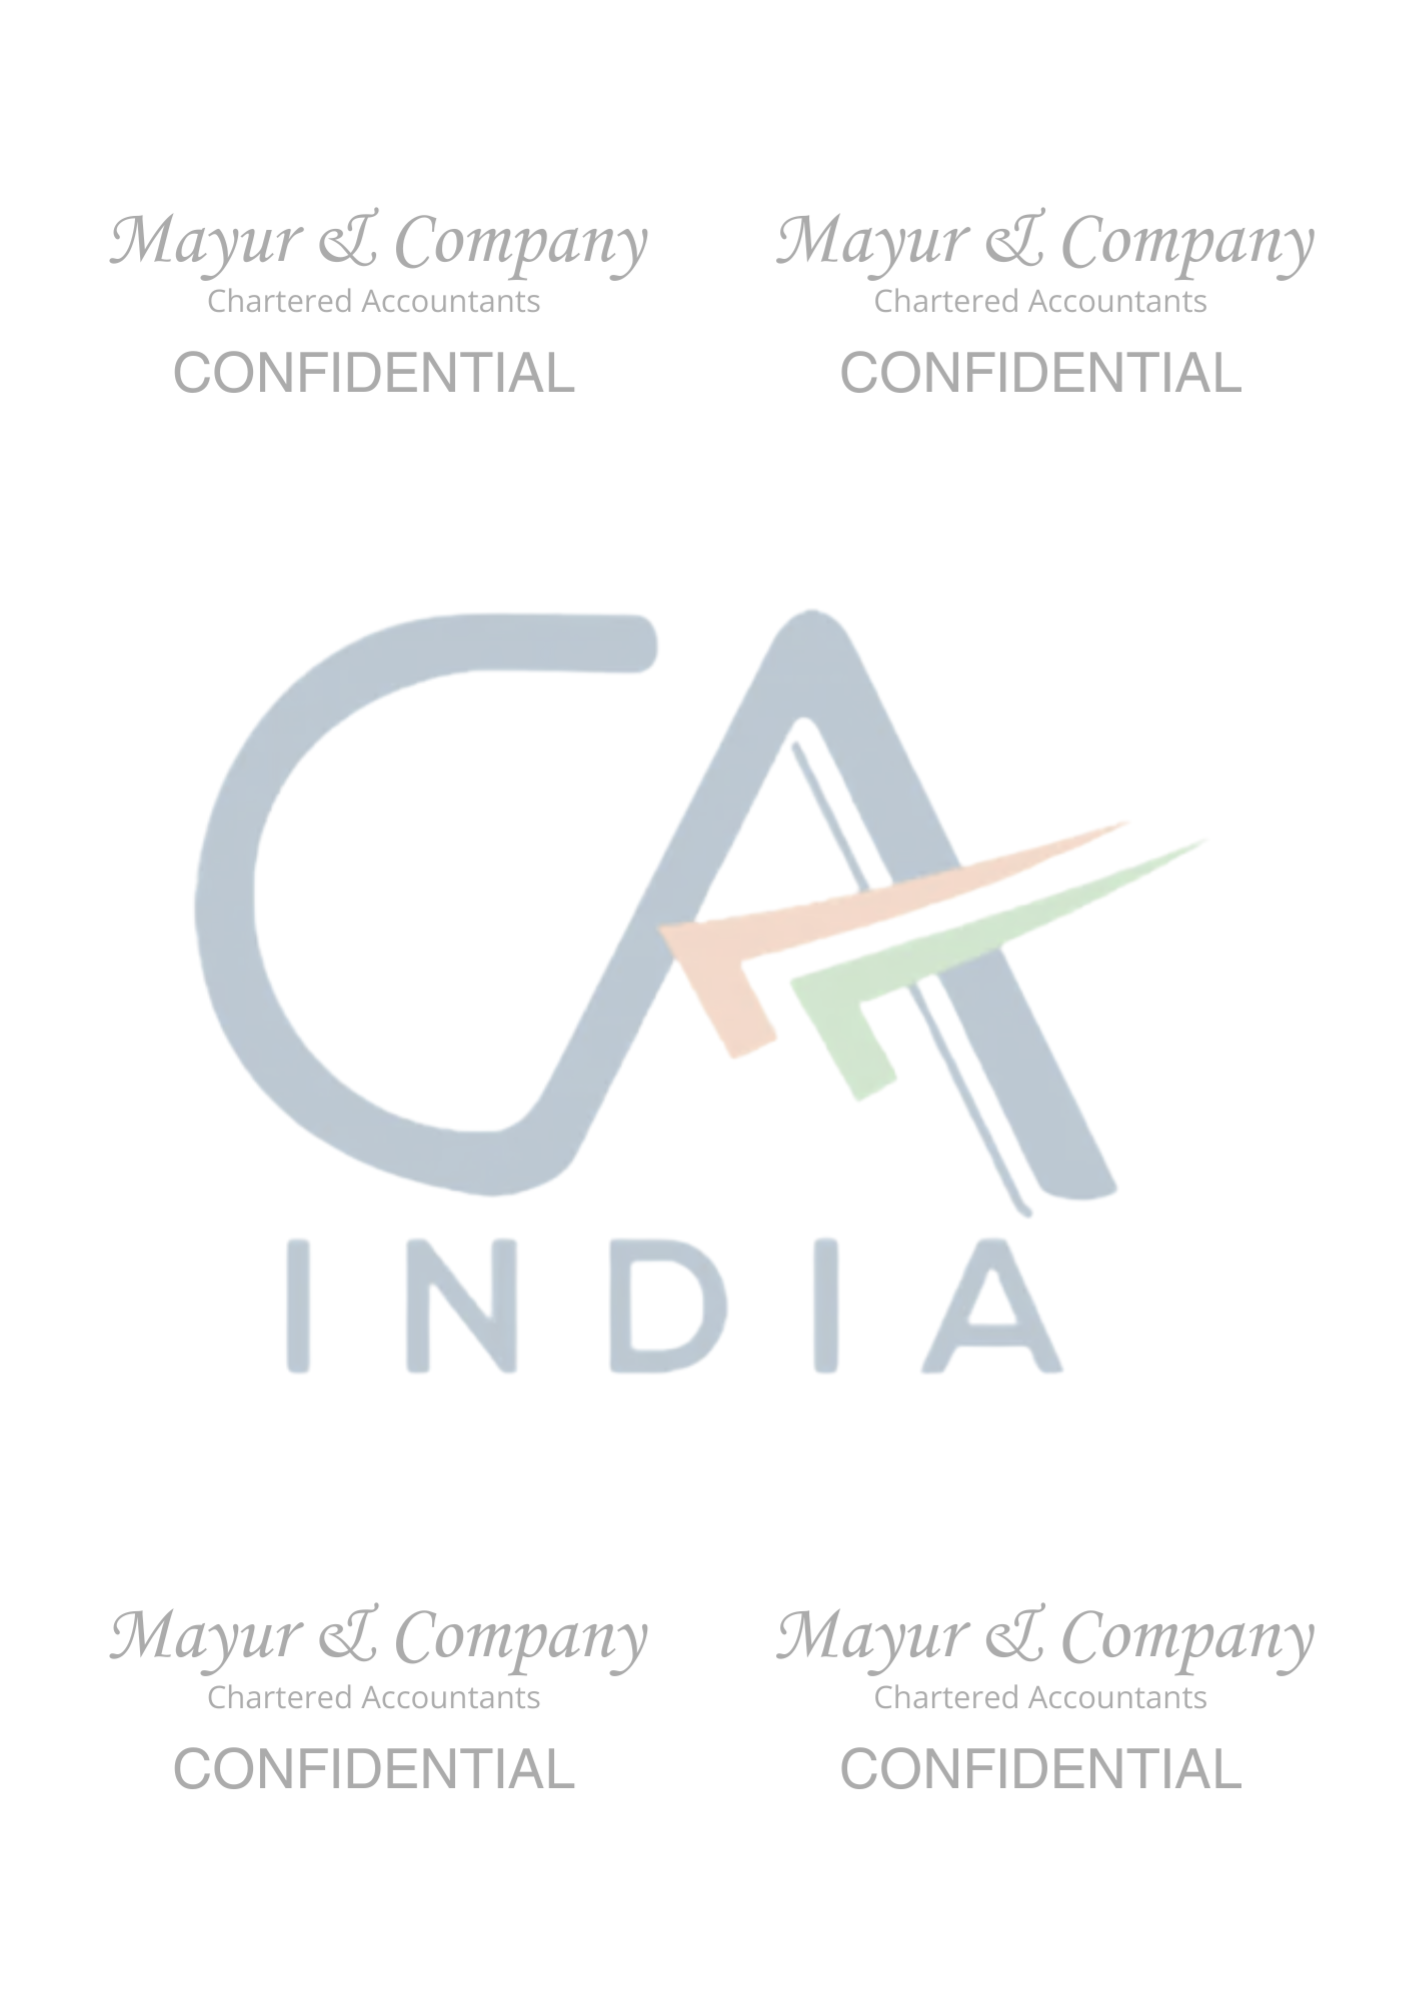
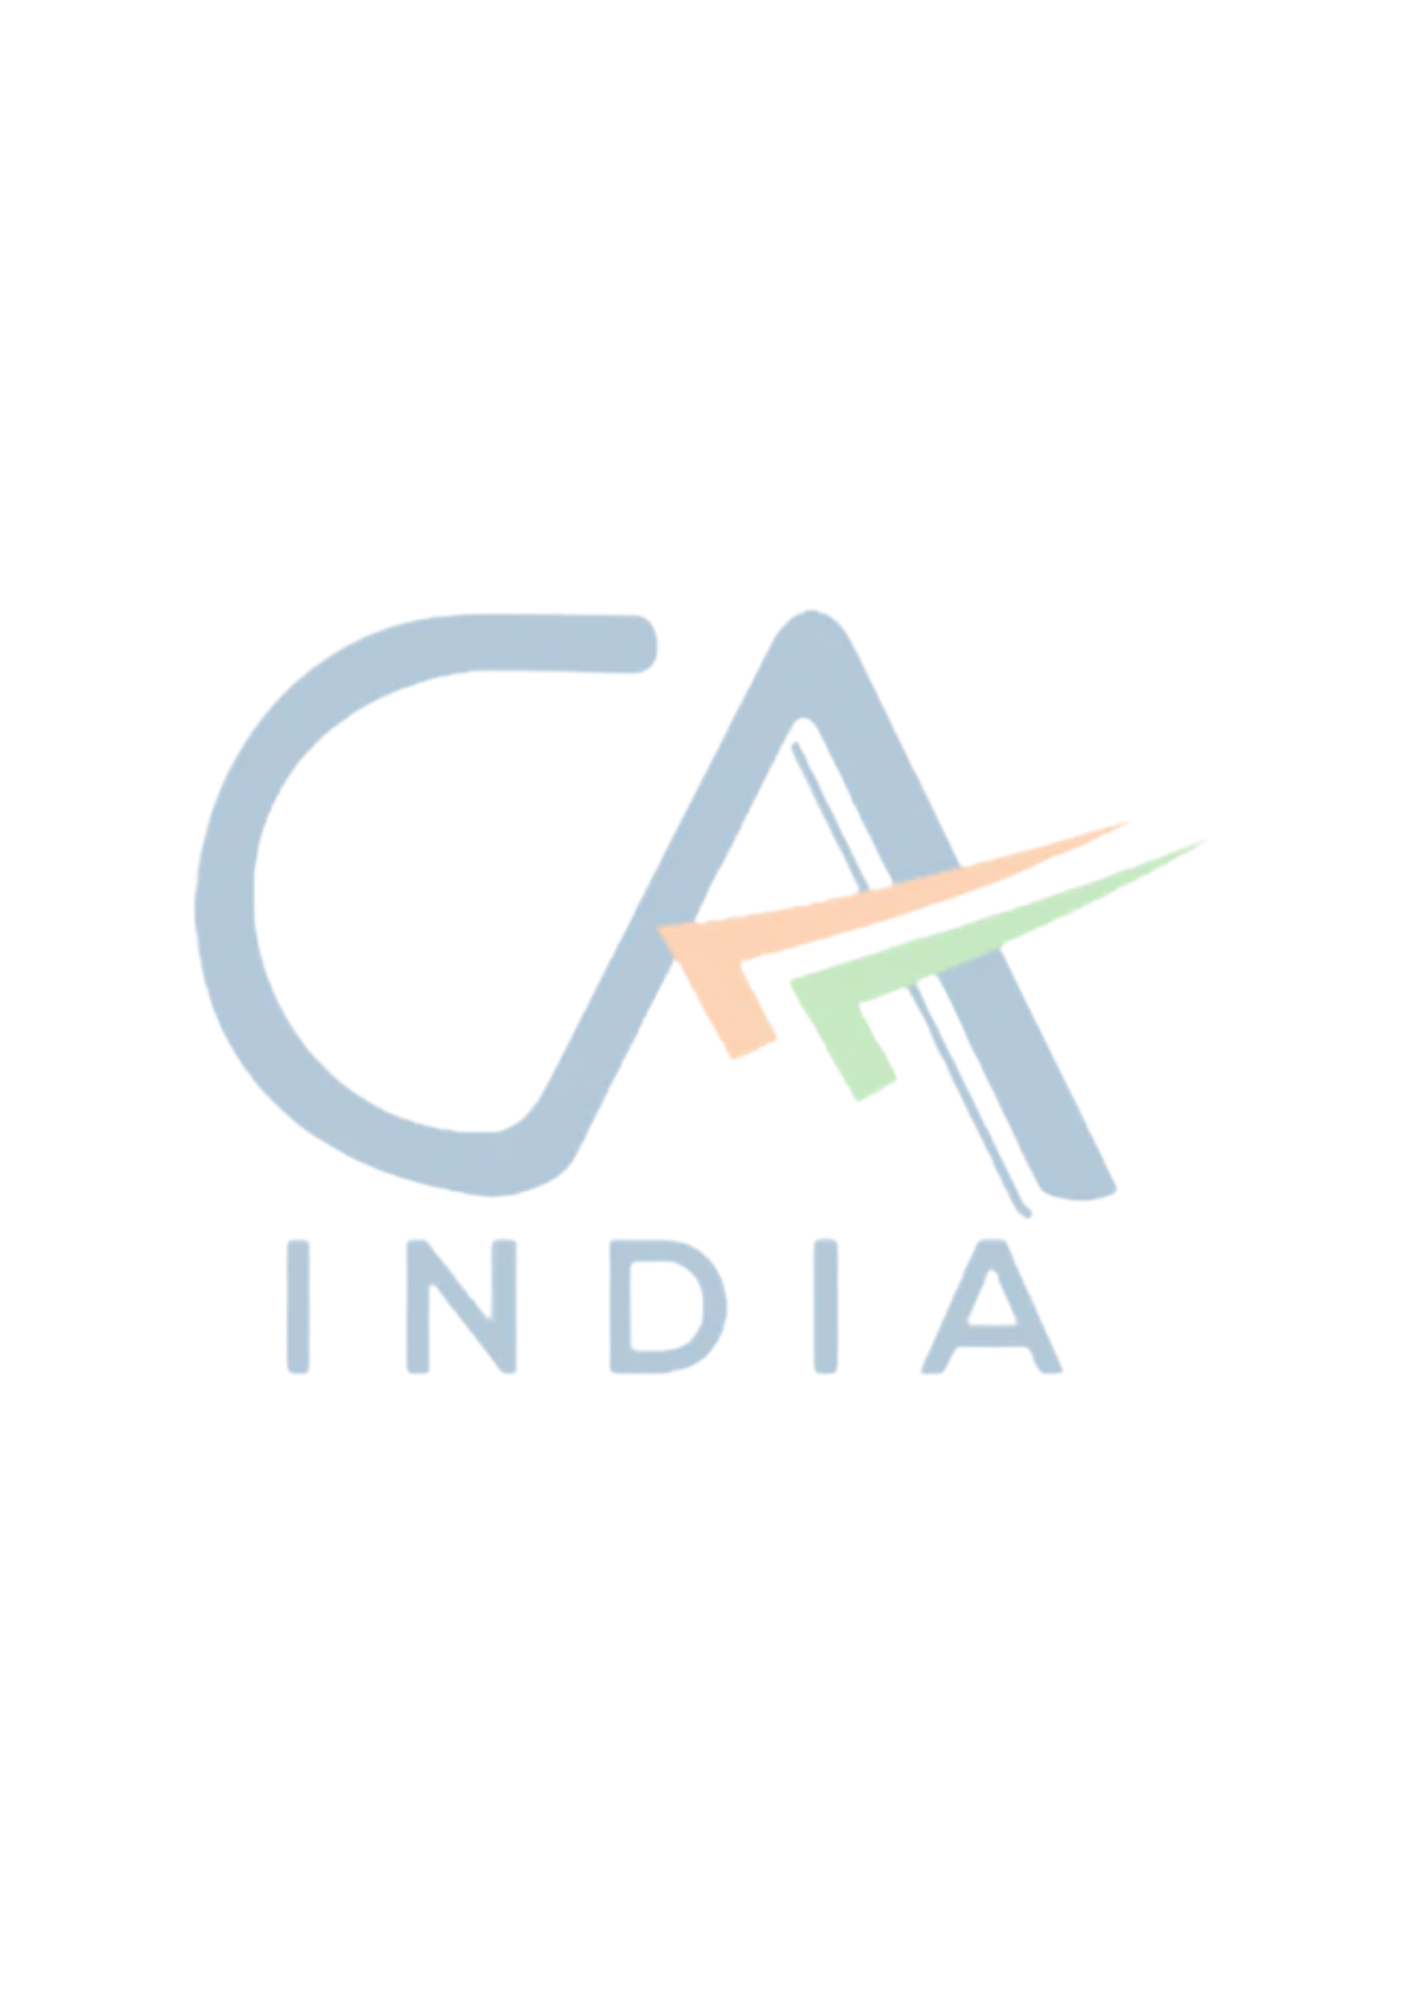
added letterhead on first page, page numbers and reference number

diff --git a/src/pdf/EngagementDocument.tsx b/src/pdf/EngagementDocument.tsx
@@ -21,18 +21,20 @@ Font.registerHyphenationCallback(word => [word]);
 
 const styles = StyleSheet.create({
   page: {
-    padding: 50,
+    paddingTop: 50,
+    paddingLeft: 50,
+    paddingRight: 50,
+    paddingBottom: 80,
     fontSize: 11,
     fontFamily: "HK Grotesk",
     color: "#1f2937",
-    lineHeight: 1.5,
   },
   watermark: {
     position: 'absolute',
     top: 0,
-    left: 30,
-    width: '90%',
-    height: '100%',
+    left: 0,
+    width: '100%',
+    height: '110%',
     zIndex: -1,
     opacity: 0.15,
   },
@@ -54,12 +56,13 @@ const styles = StyleSheet.create({
   message: {
     marginBottom: 20,
     textAlign: "justify",
+    lineHeight: 1,
   },
   categoryTitle: {
     fontSize: 12,
     fontWeight: "bold",
     marginTop: 16,
-    marginBottom: 8,
+    marginBottom: 10,
     textDecoration: "underline",
   },
   table: {
@@ -76,6 +79,7 @@ const styles = StyleSheet.create({
   tableRow: {
     flexDirection: "row",
     paddingVertical: 6,
+    marginBottom: 10,
     borderBottomWidth: 0.5,
     borderBottomColor: "#d1d5db",
   },
@@ -174,6 +178,7 @@ const styles = StyleSheet.create({
   },
   signatureLine: {
     marginBottom: 4,
+    lineHeight: 0.75,
   },
   bold: {
     fontWeight: "bold",
@@ -196,11 +201,12 @@ const styles = StyleSheet.create({
     fontFamily: "Helvetica",
   },
   advancedTermsPage: {
-    padding: 50,
+    paddingTop: 50,
+    paddingLeft: 50,
+    paddingRight: 50,
+    paddingBottom: 80,
     fontSize: 10,
     fontFamily: "Helvetica",
-    //color: "#1f2937",
-    lineHeight: 1.6,
   },
   advancedTermsTitle: {
     fontSize: 14,
@@ -224,10 +230,18 @@ const styles = StyleSheet.create({
     marginBottom: 6,
     textAlign: "justify",
     paddingLeft: 10,
-    //fontFamily: "Open Sauce",
-    //color: "#000",
-    //letterSpacing: 0,
+    lineHeight: 1,
   },
+  pageNumber: {
+    position: 'absolute',
+    bottom: 30,
+    left: 50,
+    right: 0,
+    zIndex: 10,
+    fontSize: 10,
+    color: '#000', // Changed to black as per user edit for visibility
+    textAlign: 'left',
+  }
 });
 
 const formatCurrency = (value: number) => value.toLocaleString("en-IN");
@@ -293,10 +307,59 @@ export const ProposalDocument = ({ data, advancedTermsAndConditions }: ProposalD
   return (
     <Document>
       <Page size="A4" style={styles.page}>
-        <Image src="/watermark.png" style={styles.watermark} fixed />
+        {/* Background layers - letterhead (page 1 only) + watermark (all pages) */}
+        <View
+          fixed
+          style={{
+            position: 'absolute',
+            top: 0,
+            left: 0,
+            width: '100%',
+            height: '118.2%', //dont change this
+          }}
+          render={({ pageNumber }) => (
+            <>
+              {/* Letterhead - only on page 1, rendered first (bottom layer) */}
+              {pageNumber === 1 && (
+                <Image src="/letterhead.png" style={{
+                  position: 'absolute',
+                  top: 0,
+                  left: 0,
+                  width: '100%',
+                  height: '100%'
+                }} />
+              )}
+              {/* Watermark - on all pages, rendered second (on top of letterhead) */}
+              <Image src="/watermark.png" style={{
+                position: 'absolute',
+                top: 0,
+                left: 0,
+                width: '100%',
+                height: '110%',
+                opacity: 0.15
+              }} />
+            </>
+          )}
+        />
+
+        {/* Page Numbers */}
+        <Text
+          fixed
+          style={styles.pageNumber}
+          render={({ pageNumber, totalPages }) => (
+            pageNumber > 1 ? `Page ${pageNumber} of ${totalPages}` : ''
+          )}
+        />
+
+        {/* Spacer for top margin on first page. Increase height to push text lower on page 1. */}
+        <View style={{ height: 120 }} />
+
         <Text style={styles.dateRight}>{proposalDate}</Text>
 
         <View style={styles.addressBlock}>
+          {data.client?.referenceNumber && (
+            <Text style={{ marginBottom: 4, fontWeight: 'bold' }}>Reference Number: {data.client.referenceNumber}</Text>
+          )}
           <Text>To,</Text>
           {isCompany && <Text style={styles.bold}>The Board of Directors</Text>}
           <Text style={styles.bold}>{clientName}</Text>
@@ -313,7 +376,6 @@ export const ProposalDocument = ({ data, advancedTermsAndConditions }: ProposalD
         <Text style={styles.salutation}>Sir,</Text>
 
         <Text style={styles.message}>{sanitizeText(message)}</Text>
-        {para && <Text style={styles.message}>{sanitizeText(para)}</Text>} {/* Display the new paragraph if it exists */}
 
         {Object.entries(servicesByCategory).map(([category, categoryServices]) => (
           <View key={category}>
@@ -383,25 +445,26 @@ export const ProposalDocument = ({ data, advancedTermsAndConditions }: ProposalD
           })}
         </View>
 
-        <Text style={{ marginTop: 16, marginBottom: 40 }}>
+        <Text style={{ marginTop: 7, marginBottom: 10 }}>
           Please send us signed copy of this Engagement Letter as a token of your acceptance. You may also sign it digitally.
         </Text>
 
         <View style={styles.signatureContainer} wrap={false}>
           {/* Left Block - CA Mayur Gupta */}
           <View style={styles.signatureBlock}>
-            <View style={{ borderTop: '1px solid #333', width: '100%', marginTop: 80, marginBottom: 10 }} />
-            <Text style={[styles.signatureLine, styles.bold]}>CA MAYUR GUPTA, FCA</Text>
-            <Text style={styles.signatureLine}>PROPRIETOR</Text>
-            <Text style={[styles.signatureLine, styles.bold]}>FOR MAYUR AND COMPANY</Text>
-            <Text style={styles.signatureLine}>CHARTERED ACCOUNTANTS</Text>
-            <Text style={styles.signatureLine}>DATE – {proposalDate}</Text>
-            <Text style={styles.signatureLine}>PLACE: DELHI</Text>
+            <View style={{ borderTop: '1px solid #333', width: '100%', marginTop: 20, marginBottom: 5 }} />
+            <Text style={[styles.signatureLine, styles.bold]}>CA MAYUR GUPTA</Text>
+            <Text style={styles.signatureLine}>Proprietor</Text>
+            <Text style={[styles.signatureLine, styles.bold]}>Mayur and Company</Text>
+            <Text style={styles.signatureLine}>Chartered Accountants</Text>
+            <Text style={styles.signatureLine}>Date – {proposalDate}</Text>
+            <Text style={styles.signatureLine}>Place: Delhi</Text>
+            <Text style={styles.enclosure}>Enc.: a/a</Text>
           </View>
 
           {/* Right Block - Client */}
           <View style={styles.signatureBlock}>
-            <View style={{ borderTop: '1px solid #333', width: '100%', marginTop: 80, marginBottom: 10 }} />
+            <View style={{ borderTop: '1px solid #333', width: '100%', marginTop: 20, marginBottom: 5 }} />
             {isCompany ? (
               <>
                 {clientRepresentative ? <Text style={styles.signatureLine}>{clientRepresentative}</Text> : null}
@@ -421,13 +484,35 @@ export const ProposalDocument = ({ data, advancedTermsAndConditions }: ProposalD
             {clientPhone && <Text style={styles.signatureLine}>Phone: {clientPhone}</Text>}
           </View>
         </View>
-        <Text style={styles.enclosure}>Enc.: a/a</Text>
       </Page>
 
       {advancedTermsAndConditions && advancedTermsAndConditions.length > 0 && (
 
         <Page size="A4" style={styles.advancedTermsPage}>
-          <Image src="/watermark.png" style={styles.watermark} fixed />
+          {/* Watermark - zIndex -5 */}
+          <View
+            fixed
+            style={{
+              position: 'absolute',
+              top: 0,
+              left: 0,
+              width: '100%',
+              height: '100%',
+              zIndex: -5,
+            }}
+          >
+            <Image src="/watermark.png" style={{ width: '100%', height: '100%', opacity: 0.15 }} />
+          </View>
+
+          {/* Page Numbers */}
+          <Text
+            fixed
+            style={styles.pageNumber}
+            render={({ pageNumber, totalPages }) => (
+              pageNumber > 1 ? `Page ${pageNumber} of ${totalPages}` : ''
+            )}
+          />
+
           <Text style={styles.advancedTermsTitle}>General Terms and Conditions</Text>
           {advancedTermsAndConditions.map((term, index) => {
             const headingText = term.heading.replace(/^\d+\.?\s*/, '');

diff --git a/src/components/ClientInfo.tsx b/src/components/ClientInfo.tsx
@@ -14,6 +14,7 @@ interface ClientInfoProps {
   greeting: string;
   entityType?: string;
   para: string; // Added new field for paragraph
+  referenceNumber: string;
   onFieldChange: (field: string, value: string) => void;
 }
 
@@ -30,6 +31,7 @@ export const ClientInfo = ({
   greeting,
   entityType = "company",
   para, // Added new field for paragraph
+  referenceNumber,
   onFieldChange,
 }: ClientInfoProps) => {
   return (
@@ -135,6 +137,20 @@ export const ClientInfo = ({
               placeholder="Enter Email"
               value={email}
               onChange={(e) => onFieldChange("email", e.target.value)}
+              className="px-4 py-2 border border-border rounded-lg bg-background text-foreground focus:outline-none focus:ring-2 focus:ring-primary/50 transition-all"
+            />
+          </div>
+
+          <div className="flex flex-col">
+            <label htmlFor="reference-number" className="text-sm font-medium text-foreground/70 mb-2">
+              Reference Number
+            </label>
+            <input
+              id="reference-number"
+              type="text"
+              placeholder="Enter Reference Number"
+              value={referenceNumber}
+              onChange={(e) => onFieldChange("referenceNumber", e.target.value)}
               className="px-4 py-2 border border-border rounded-lg bg-background text-foreground focus:outline-none focus:ring-2 focus:ring-primary/50 transition-all"
             />
           </div>

diff --git a/src/components/ServiceSelector.tsx b/src/components/ServiceSelector.tsx
@@ -34,6 +34,7 @@ export const ServiceSelector = () => {
     date: new Date().toISOString().slice(0, 10),
     para: defaultTerms.join("\n"),
     entityType: "company",
+    referenceNumber: "",
   });
   const [isGenerating, setIsGenerating] = useState(false);
   const [isPreparing, setIsPreparing] = useState(false);
@@ -239,6 +240,7 @@ export const ServiceSelector = () => {
         address: clientInfo.address,
         PAN: clientInfo.PAN,
         entityType: clientInfo.entityType as "company" | "proprietorship",
+        referenceNumber: clientInfo.referenceNumber,
       },
       proposal: {
         preparedFor: clientInfo.name || "Client",
@@ -292,6 +294,7 @@ export const ServiceSelector = () => {
           address: clientInfo.address,
           PAN: clientInfo.PAN,
           entityType: clientInfo.entityType as "company" | "proprietorship",
+          referenceNumber: clientInfo.referenceNumber,
         };
       }
 
@@ -526,6 +529,7 @@ export const ServiceSelector = () => {
             greeting={clientInfo.message}
             para={clientInfo.para} // Pass the new paragraph field
             entityType={clientInfo.entityType}
+            referenceNumber={clientInfo.referenceNumber || ""}
             onFieldChange={handleClientFieldChange}
           />
           <div className="md:hidden mb-8">

diff --git a/src/types/engagement.ts b/src/types/engagement.ts
@@ -19,6 +19,7 @@ export interface ClientInfo {
   address?: string;
   PAN?: string;
   entityType?: 'company' | 'proprietorship';
+  referenceNumber?: string;
 }
 
 export interface ProposalMeta {
